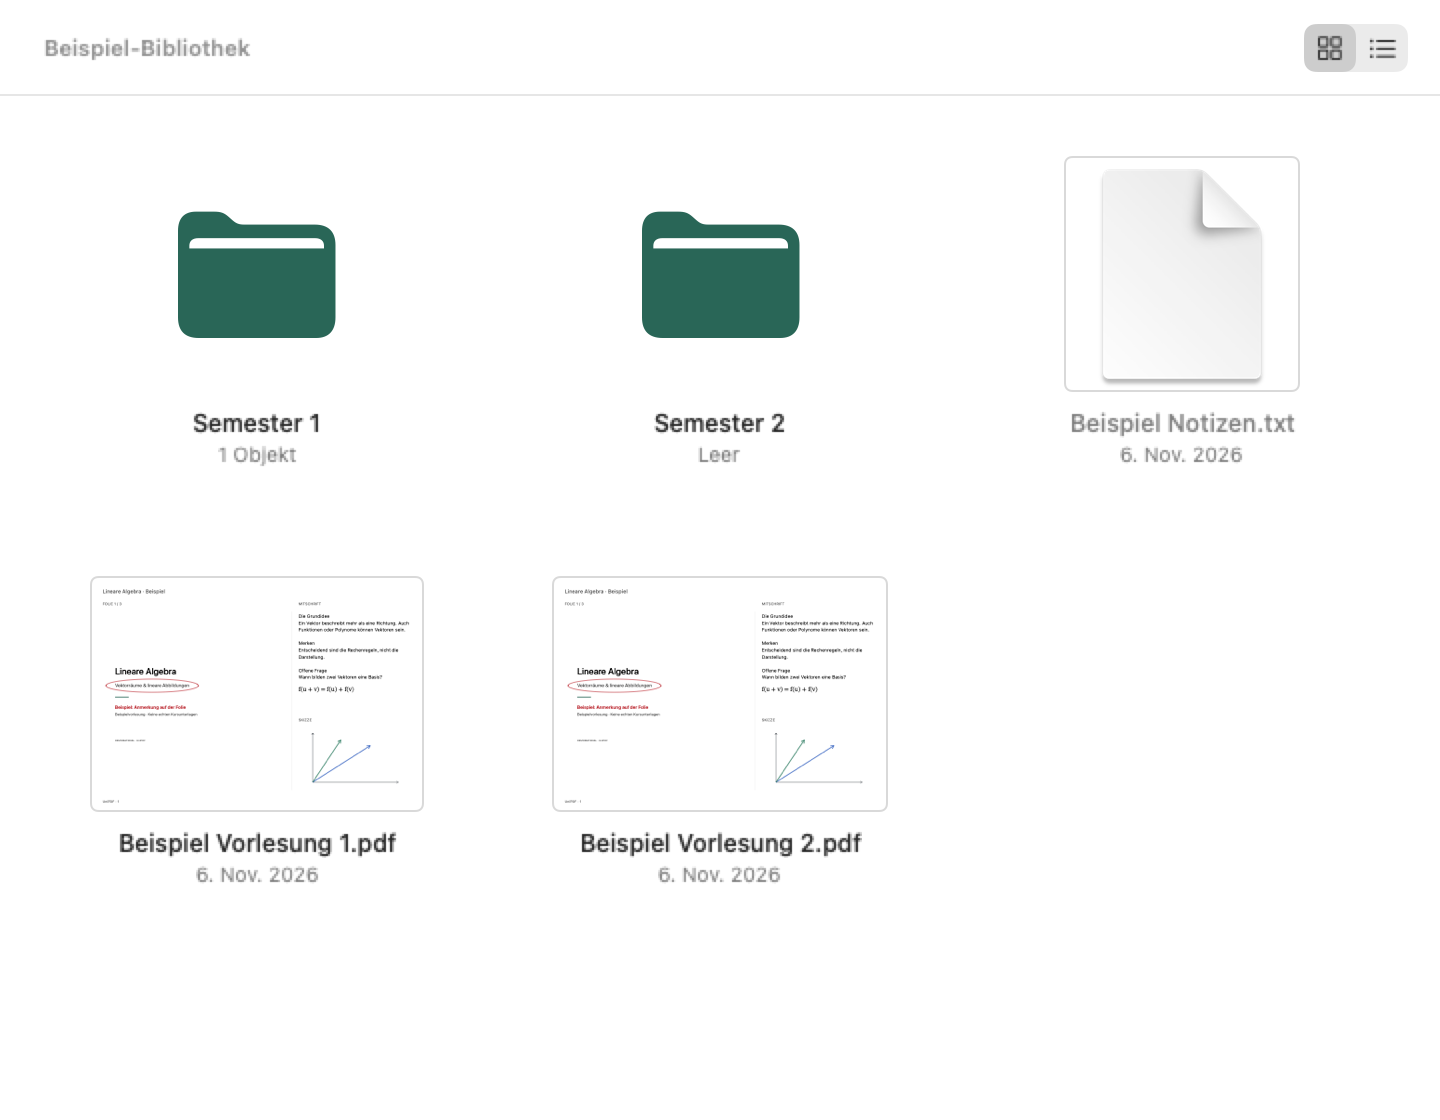
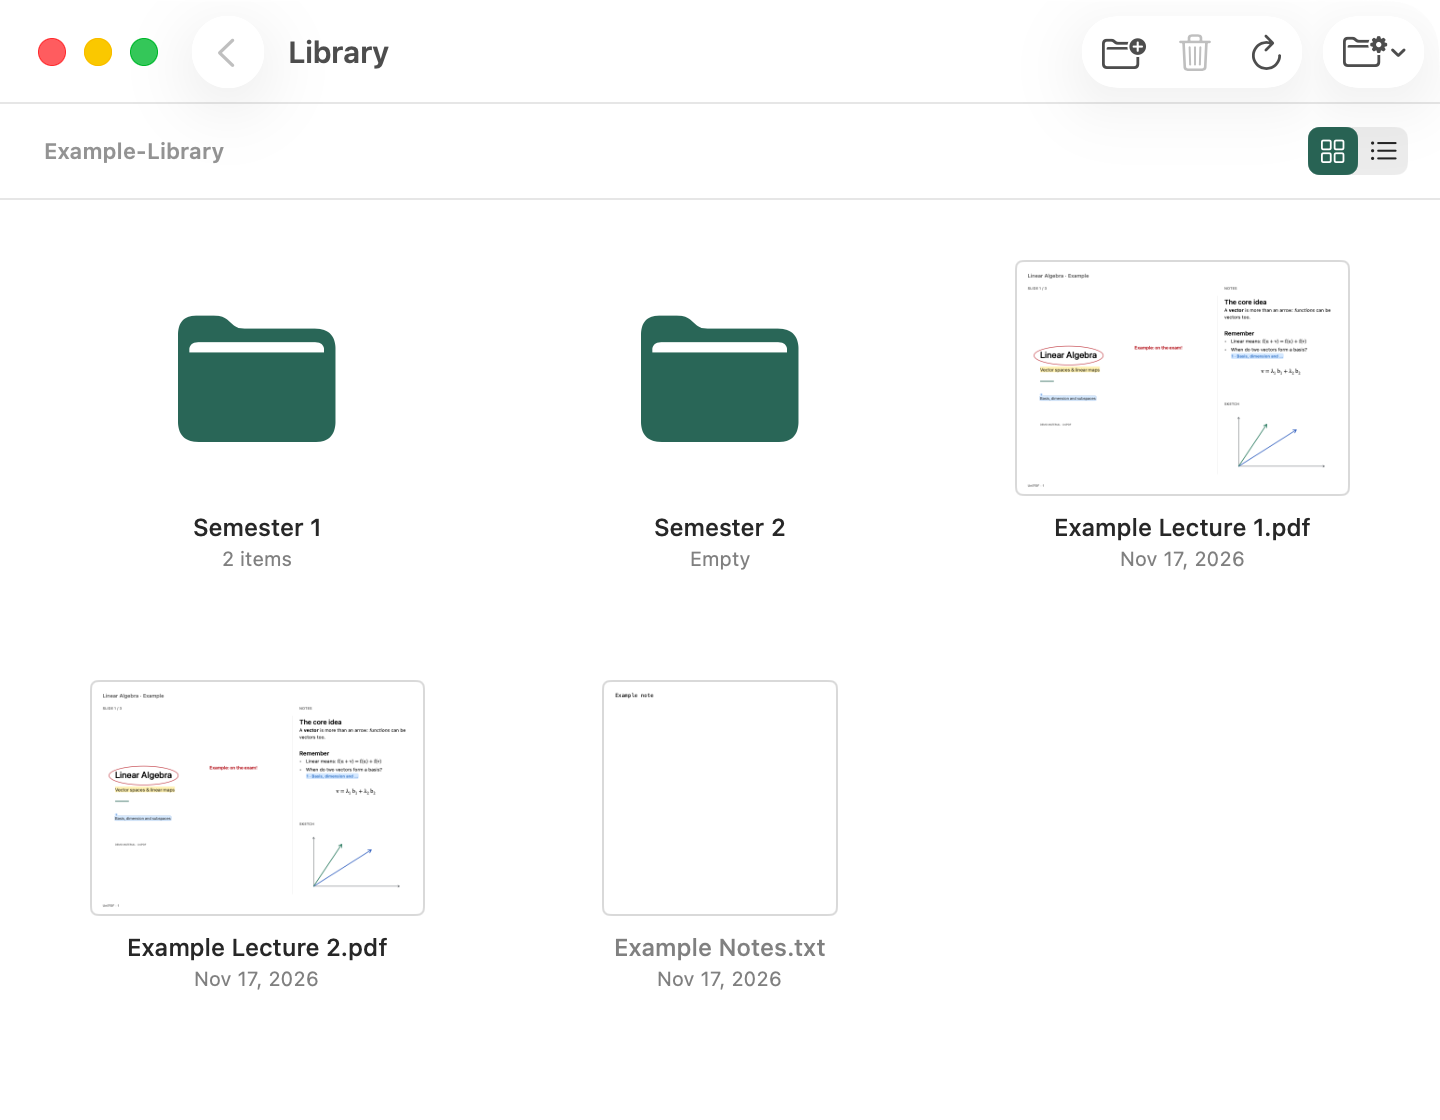
Show the English app in the README, in light and dark

diff --git a/docs/images/README.md b/docs/images/README.md
@@ -7,23 +7,18 @@ All images belong to the project. They only use the purpose-made and visibly lab
 | File | Origin |
 | --- | --- |
 | `unipdf-logo.png` | The app icon, created with `scripts/make-icon.swift`; PNG at 512 × 512 pixels. |
-| `workspace-light.png` | Rendered SwiftUI workspace in the light appearance. |
-| `library.png` | Rendered SwiftUI library with sample folders and PDF thumbnails. |
+| `workspace-light.png` | Window of the running app in the light appearance, in English. |
+| `workspace-dark.png` | The same window in the dark appearance; GitHub shows it in dark mode. |
+| `library.png` | Library window of the running app with the sample folders and their thumbnails. |
 | `study-pdf.png` | First page of the actual sample study PDF created with `PDFExporter.export`. |
 
 ## How the images were made
 
-The app views are based on source revision `acf37a3` with the adjusted demo markup from `PreviewHarness.swift`. The sample ellipse is computed from the actual text dimensions, with extra room around the letters. The existing SwiftUI views are captured with `NSHostingView` and `cacheDisplay`. The workspace views use 1320 × 1000 points and the library 720 × 560 points; both are rendered at double pixel density.
+`.build/release/UniPDF --preview` creates the demo lecture, its study PDF and a sample library in `build/Preview`. The images are captures of the running app's windows (`screencapture -l <window id> -o`), made with the built `build/UniPDF.app`:
 
-Screen capture and GPU-backed PDFKit rendering are limited in the development environment. For these documentation images, the PDF area was therefore replaced, only in a temporary capture build, by a CPU-rendered view of the same original slide with the same annotations (`AnnotationRenderer.thumbnail`). The PDF thumbnails in the library were loaded from the actual sample PDFs into the existing thumbnail cache beforehand, because the Quick Look service does not provide content previews there. Controls, notes, formula, sketch and library come from the existing app views. The images are **rendered app previews**, not captures of a running desktop window. The capture build is not shipped with the app.
+1. Copy `Example-Study-PDF.pdf` into the sample library as `Semester 1/Linear Algebra.pdf`.
+2. Back up the app's preferences (`defaults export de.unipdf.mac`), point its library at `build/Preview/Example-Library` and give the document window 1320 × 820 points.
+3. Open the lecture with `open -a build/UniPDF.app … --args -ApplePersistenceIgnoreState YES -AppleLanguages "(en)" -AppleLocale en_US`, adding `-NSRequiresAquaSystemAppearance YES` for the light images. Capture the document window, then open the library with ⇧⌘L and capture it.
+4. Quit the app and restore the preferences (`defaults import`).
 
-The study PDF is exported from the same sample project and rasterized as a PDF page. The image files also carry their origin in their PNG metadata.
-
-To make new images on a Mac, build the app and run the existing preview from the repository folder:
-
-```sh
-zsh scripts/build-app.sh
-.build/release/UniPDF --preview
-```
-
-The preview creates its demo project, the study PDF and the app views in `build/Preview`. It is meant for development. Before replacing the README images, check that the PDF content and annotations are fully visible in the captures; not every capture method records the PDFKit layers.
+The study PDF image is the first page of `Example-Study-PDF.pdf`, rasterized at twice its size. Only demo material appears in the images; check that no personal files show up, for example in the sidebar's Files section, before replacing them.

diff --git a/README.md b/README.md
@@ -23,7 +23,10 @@
   <a href="#development">Development</a>
 </p>
 
-<img src="docs/images/workspace-light.png" alt="UniPDF with the slide overview on the left, an annotated lecture slide in the middle and notes, a formula and a sketch on the right" width="1320">
+<picture>
+  <source media="(prefers-color-scheme: dark)" srcset="docs/images/workspace-dark.png">
+  <img src="docs/images/workspace-light.png" alt="UniPDF with the slide overview on the left, an annotated lecture slide in the middle and notes, a formula and a sketch on the right" width="1320">
+</picture>
 
 ## What UniPDF does
 

diff --git a/README.de.md b/README.de.md
@@ -23,7 +23,10 @@
   <a href="#entwicklung">Entwicklung</a>
 </p>
 
-<img src="docs/images/workspace-light.png" alt="UniPDF mit Folienübersicht links, einer markierten Vorlesungsfolie in der Mitte und Mitschrift, Formel und Skizze rechts" width="1320">
+<picture>
+  <source media="(prefers-color-scheme: dark)" srcset="docs/images/workspace-dark.png">
+  <img src="docs/images/workspace-light.png" alt="UniPDF mit Folienübersicht links, einer markierten Vorlesungsfolie in der Mitte und Mitschrift, Formel und Skizze rechts" width="1320">
+</picture>
 
 ## Das kann UniPDF
 
